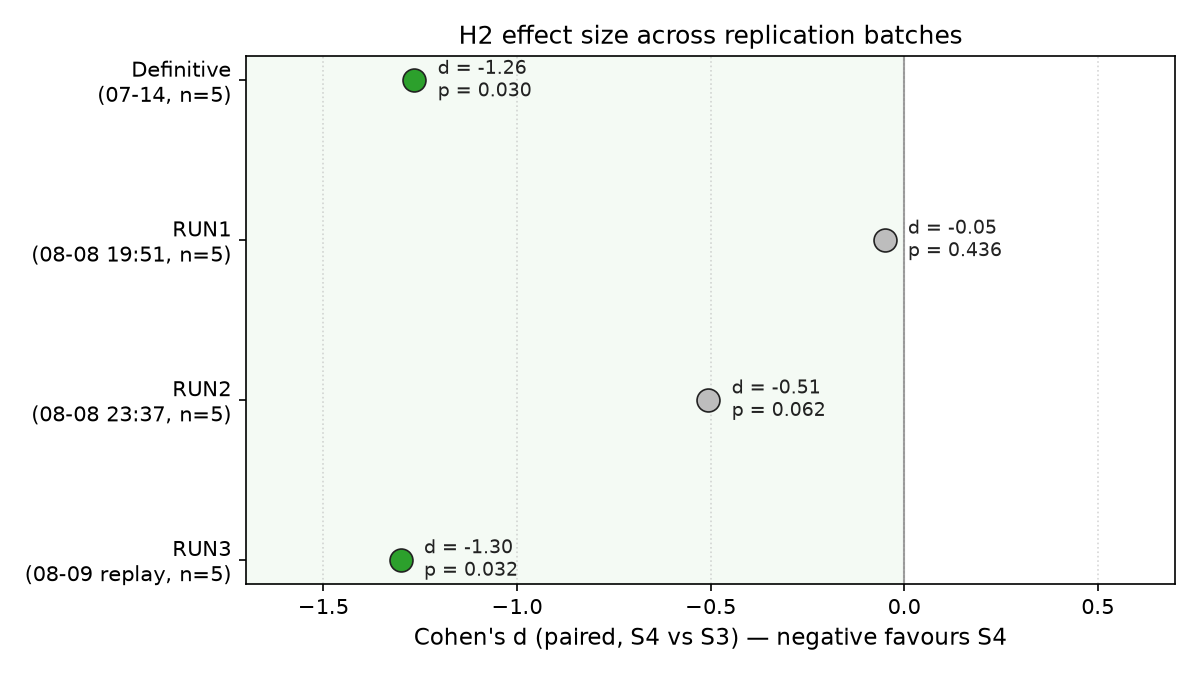
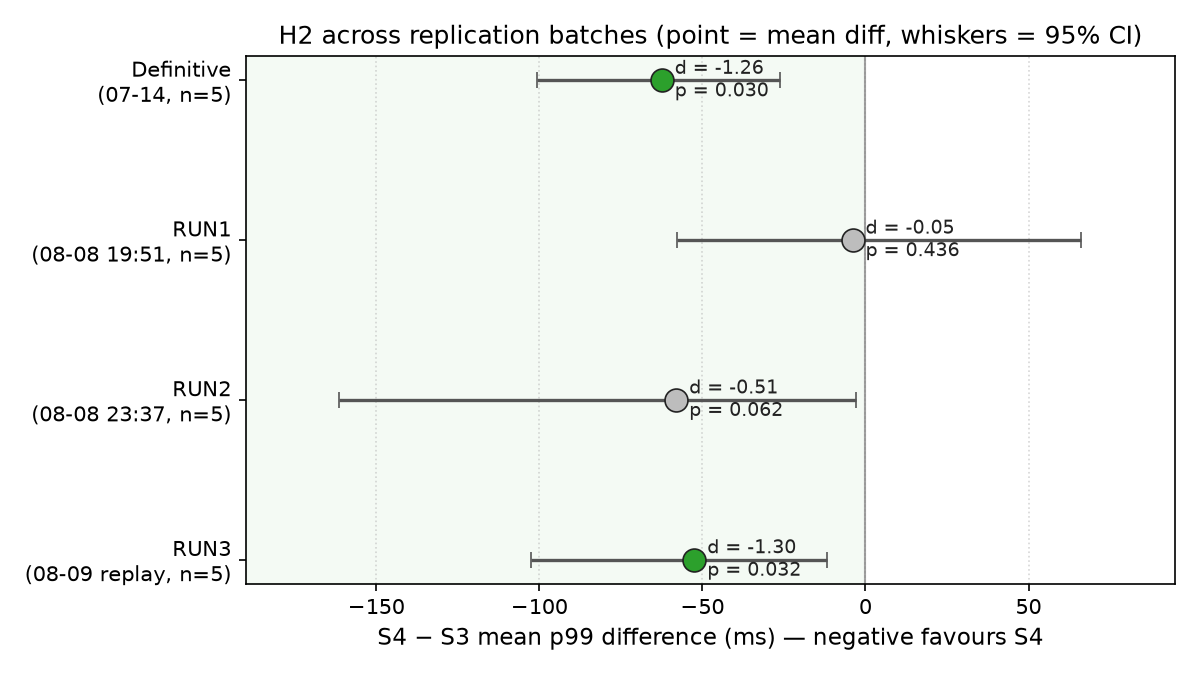
docs(thesis): pseudocode+flow diagrams, honest number corrections (confidence 0.88, Welch/MW framing, cost-model caveat, backed pooled n=10), updated biography, trimmed appendix D

diff --git a/apps/analysis/analysis_cli/thesis_figures.py b/apps/analysis/analysis_cli/thesis_figures.py
@@ -62,24 +62,39 @@ def _phase_b_dir(repo_root: Path, bundle: str) -> Path:
     return repo_root / "results" / "experiments" / "phase-b" / bundle
 
 
-def _paired(repo_root: Path, bundle: str) -> tuple[float, float]:
-    """Return (cohens_d_paired, permutation_p_value) from a paired_analysis.json."""
+def _paired_stats(repo_root: Path, bundle: str) -> dict:
+    """Return mean-difference + paired CI + d + p from a paired_analysis.json."""
     p = _phase_b_dir(repo_root, bundle) / "paired_analysis.json"
     prim = _read_json(p)["primary"]
-    return float(prim["cohens_d_paired"]), float(prim["permutation_p_value"])
+    return {
+        "mean_diff": float(prim["mean_difference"]),
+        "ci_lower": float(prim["paired_ci_lower"]),
+        "ci_upper": float(prim["paired_ci_upper"]),
+        "d": float(prim["cohens_d_paired"]),
+        "p": float(prim["permutation_p_value"]),
+    }
 
 
 # ---------------------------------------------------------------------------
-# fig04_6 — H2 effect-size forest plot across replication batches
+# fig04_6 — H2 forest plot across replication batches.
+# Point estimate = S4−S3 mean-difference (ms); whiskers = 95% CI. Negative = S4
+# faster. CI is on the ms scale in every source (paired CI for the three paired
+# bundles; Welch CI for the n=5 replay RUN3).
 # ---------------------------------------------------------------------------
 def _fig_replication_batches(repo_root: Path, out_dir: Path) -> Path:
-    # Effect sizes (Cohen's d paired, S4 vs S3; negative = S4 better).
-    d_def, p_def = _paired(repo_root, DEFINITIVE_PAIRED)
-    d_run1, p_run1 = _paired(repo_root, PAIRED_RUN1)
-    d_run2, p_run2 = _paired(repo_root, PAIRED_RUN2)
+    st_def = _paired_stats(repo_root, DEFINITIVE_PAIRED)
+    st_run1 = _paired_stats(repo_root, PAIRED_RUN1)
+    st_run2 = _paired_stats(repo_root, PAIRED_RUN2)
 
-    # n=5 RUN3 S4-vs-S3: report.md — Cohen's d -1.300, Mann-Whitney p 0.0317.
-    d_run3, p_run3 = -1.300, 0.0317
+    # RUN3 (n=5 replay) S4-vs-S3 from report.md: Welch mean diff −52.50 ms,
+    # 95% CI [−102.60, −11.81], Cohen's d −1.300, Mann-Whitney p 0.0317.
+    st_run3 = {
+        "mean_diff": -52.50,
+        "ci_lower": -102.60,
+        "ci_upper": -11.81,
+        "d": -1.300,
+        "p": 0.0317,
+    }
 
     labels = [
         "Definitive\n(07-14, n=5)",
@@ -87,31 +102,36 @@ def _fig_replication_batches(repo_root: Path, out_dir: Path) -> Path:
         "RUN2\n(08-08 23:37, n=5)",
         "RUN3\n(08-09 replay, n=5)",
     ]
-    d_values = [d_def, d_run1, d_run2, d_run3]
-    p_values = [p_def, p_run1, p_run2, p_run3]
+    stats = [st_def, st_run1, st_run2, st_run3]
 
     fig, ax = plt.subplots(figsize=(8, 4.5))
     ypos = np.arange(len(labels))[::-1]
 
     ax.axvline(0, color="#999999", linewidth=1.0, zorder=1)
 
-    for y, d, p in zip(ypos, d_values, p_values):
-        color = "#2ca02c" if p < 0.05 else "#bdbdbd"
+    for y, s in zip(ypos, stats):
+        color = "#2ca02c" if s["p"] < 0.05 else "#bdbdbd"
+        # Asymmetric error: [mean−CI_lower, CI_upper−mean] in ms.
+        xerr = [[s["mean_diff"] - s["ci_lower"]], [s["ci_upper"] - s["mean_diff"]]]
         ax.errorbar(
-            d,
+            s["mean_diff"],
             y,
-            xerr=0.0,
+            xerr=xerr,
             fmt="o",
             markersize=11,
             markerfacecolor=color,
             markeredgecolor="#222222",
             markeredgewidth=0.8,
+            elinewidth=1.6,
+            capsize=4,
+            capthick=1.2,
+            ecolor="#555555",
             zorder=3,
         )
         ax.text(
-            d + 0.06,
+            s["mean_diff"] + 4,
             y,
-            f"d = {d:.2f}\np = {p:.3f}",
+            f"d = {s['d']:.2f}\np = {s['p']:.3f}",
             va="center",
             ha="left",
             fontsize=9,
@@ -120,11 +140,11 @@ def _fig_replication_batches(repo_root: Path, out_dir: Path) -> Path:
 
     ax.set_yticks(ypos)
     ax.set_yticklabels(labels)
-    ax.set_xlabel("Cohen's d (paired, S4 vs S3) — negative favours S4")
-    ax.set_title("H2 effect size across replication batches")
-    ax.set_xlim(-1.7, 0.7)
+    ax.set_xlabel("S4 − S3 mean p99 difference (ms) — negative favours S4")
+    ax.set_title("H2 across replication batches (point = mean diff, whiskers = 95% CI)")
+    ax.set_xlim(-190, 95)
     ax.grid(axis="x", linestyle=":", alpha=0.5)
-    ax.axvspan(-1.7, 0, color="#2ca02c", alpha=0.05, zorder=0)
+    ax.axvspan(-190, 0, color="#2ca02c", alpha=0.05, zorder=0)
     fig.tight_layout()
 
     out = out_dir / "fig04_6_replication_batches.png"

diff --git a/thesis-typst/src/figures/FIGURES_README.md b/thesis-typst/src/figures/FIGURES_README.md
@@ -17,9 +17,9 @@ primaviz import: `#import "@preview/primaviz:0.9.1": *` (cached at
 | fig04_1 | `fig-paired-perpair()` | Per-pair p99 (S3 vs S4), definitive paired H2, n=5 | `2026-07-14_clarknet-tuned-paired-n5/paired_analysis.json` | P1–P5 S3: 235.6 / 192.2 / 151.4 / 164.0 / 199.2 ms; S4: 101.4 / 104.9 / 100.5 / 155.7 / 167.4 ms. SLO dashed at 200 ms. p=0.030, d=−1.26 |
 | fig04_2 | `fig-p99-boxplot()` | Four-scenario p99 boxplot + 20 run points, n=5 | `2026-08-09_clarknet-replay_032257/*/result.json` | S1 med 112.7, S2 med 79.0, S3 med 151.6, S4 med 93.8 ms. SLO dashed at 200 ms |
 | fig04_3 | `fig-slo-violations()` | SLO violations S3 vs S4, two tiers | definitive `*/result.json` + `2026-08-09_clarknet-replay_032257/report.md` | Definitive 656 vs 130 (−80.2%); n=5 1998 vs 92 (−95.4%) |
-| fig04_4 | `fig-node-provisioning()` | Node CPU% timeline + provisioning events | `2026-07-14_clarknet-tuned-paired-n5/s3-hybrid-reactive_run1/{node_utilization,provision_events}.json` | node_created at t≈394 s, t≈669 s (green); scale_down at t≈763 s, t≈1230 s (red) |
+| fig04_4 | `fig-node-provisioning()` | Node CPU% timeline + full provisioning-event markers | `2026-07-14_clarknet-tuned-paired-n5/s3-hybrid-reactive_run1/{node_utilization,provision_events}.json` | pending_detected t≈317/577 s (grey), node_created t≈394/669 s (green), scale_down_detected t≈762/1229 s (red), node_deleted t≈764/1231 s (purple) |
 | fig04_5 | `fig-cost-comparison()` | Monthly cost by scenario (n=1 diagnostic) | `results/claims/FINAL_NUMBERS.md` | S1=132, S2=394, S3=147, S4=142 USD/mo; definitive paired S3=S4=163 (dashed) |
-| fig04_6 | `figures/fig04_6_replication_batches.png` (matplotlib) | H2 effect-size forest across batches | definitive + `2026-08-08_paired-h2_{195150,233726}/paired_analysis.json` + `2026-08-09_clarknet-replay_032257/report.md` | d=−1.26 (p=0.030), d=−0.050 (p=0.436), d=−0.505 (p=0.062), d=−1.300 (MW p=0.032) |
+| fig04_6 | `figures/fig04_6_replication_batches.png` (matplotlib) | H2 forest plot — S4−S3 mean diff (ms) with 95% CI whiskers | definitive + `2026-08-08_paired-h2_{195150,233726}/paired_analysis.json` + `2026-08-09_clarknet-replay_032257/report.md` | Definitive −62.5 [−100.9, −26.2] d=−1.26 p=0.030; RUN1 −4.0 [−57.8, +66.1] d=−0.05 p=0.436; RUN2 −58.0 [−161.5, −2.8] d=−0.51 p=0.062; RUN3 −52.5 [−102.6, −11.8] d=−1.30 MW p=0.032 |
 
 ## primaviz function names + annotation shapes (for text workers)
 

diff --git a/results/claims/CLAIMS_TO_EVIDENCE.md b/results/claims/CLAIMS_TO_EVIDENCE.md
@@ -90,7 +90,7 @@
 - **Evidence:** `results/experiments/phase-a1/2026-02-12_predictive-trigger/report.md`
 - **⚠ Superseded by Bugs 8-13. See INCONSISTENCIES.md 2026-07-11 entry.**
 - **Registry ID:** `experiments.2026-02-12-predictive-trigger` (superseded; mechanism demo not recomputed on fixed infra)
-- **Result:** Range 0.72–0.82 during live predictions
+- **Result:** Range 0.72–0.88 during live predictions
 - **Status:** ✅ Validated (pre-fix infra)
 
 ---
